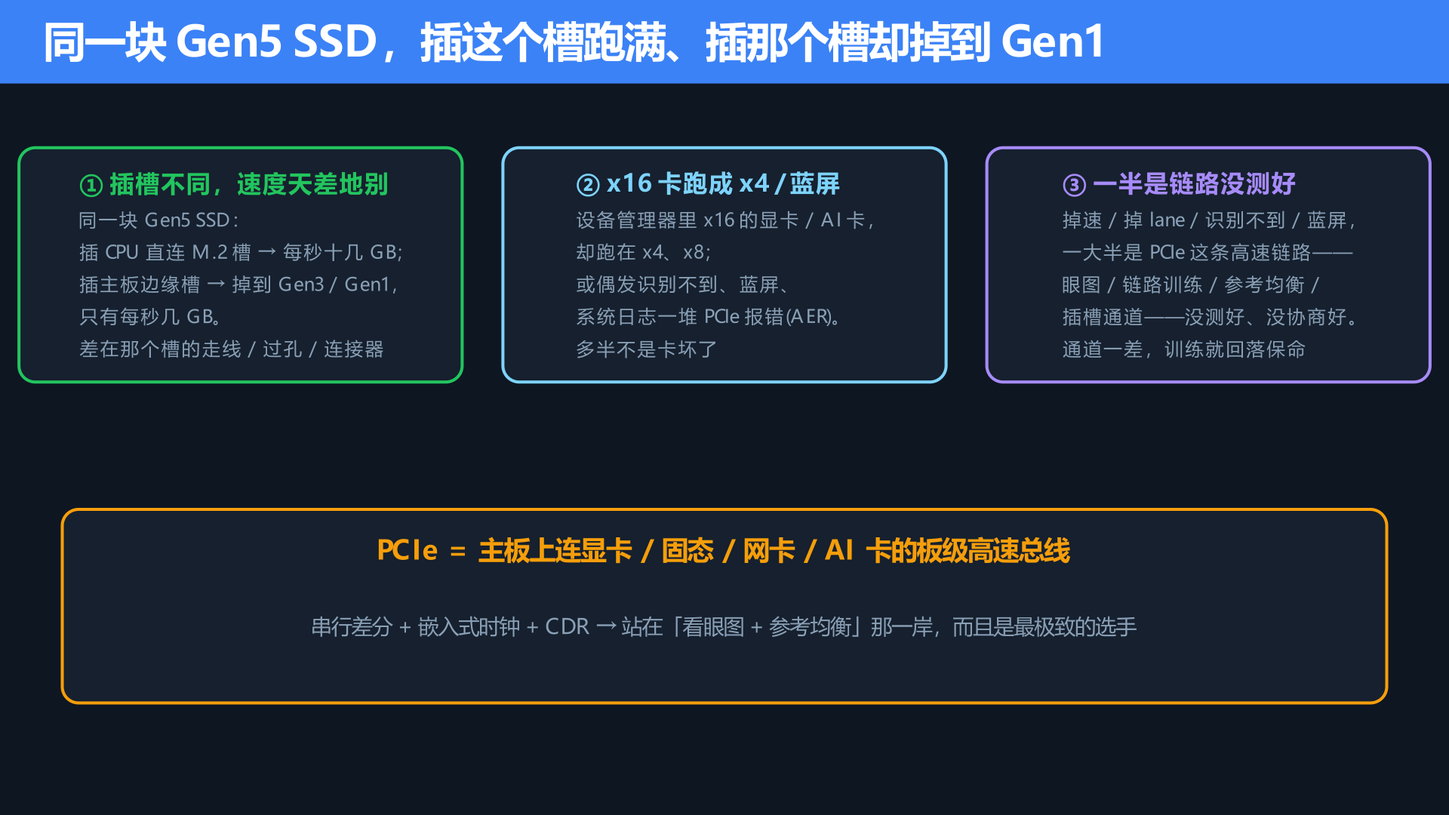
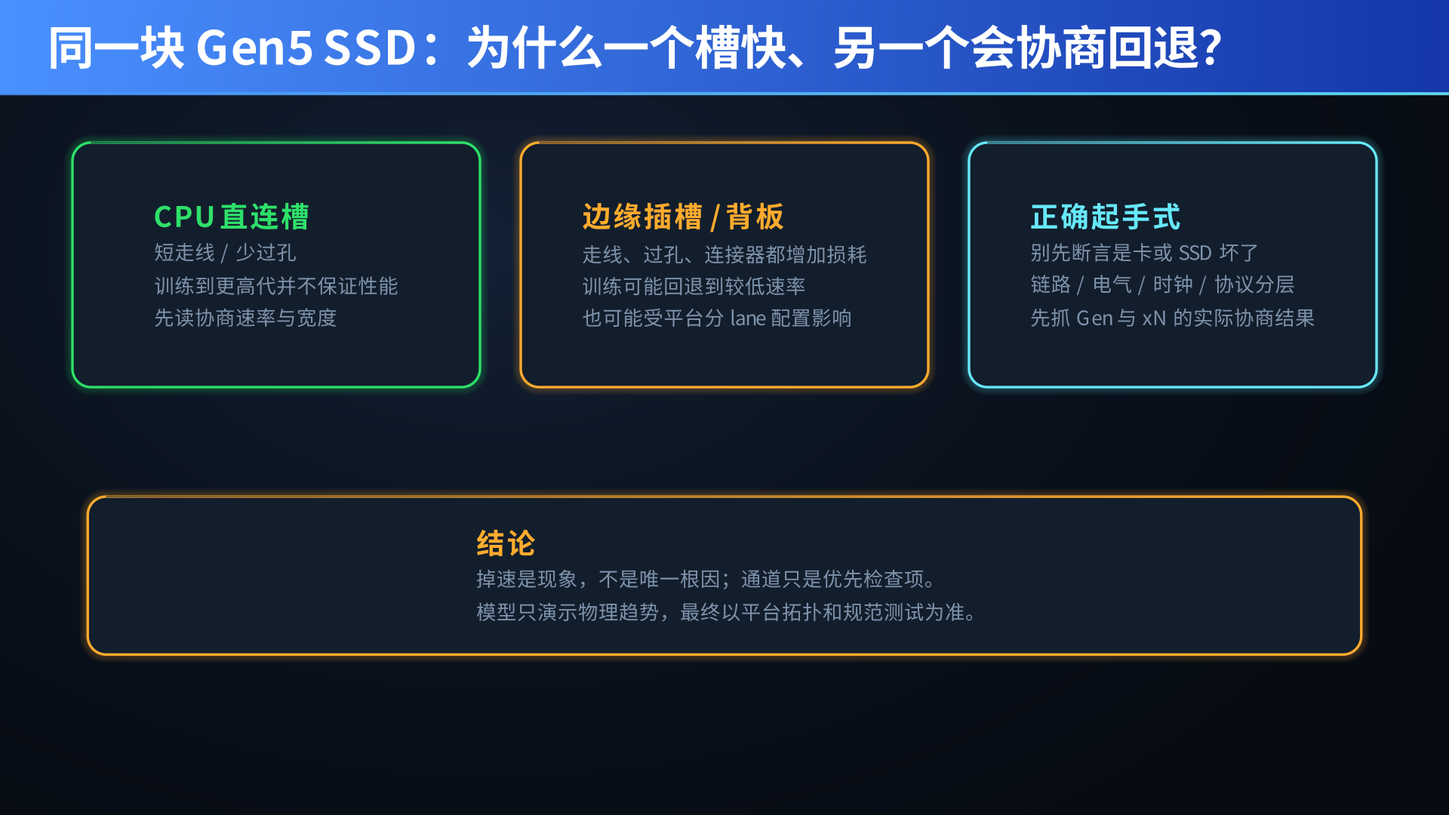
feat: publish upgraded PCIe article
Copilot-Session: 4c8e3f6f-1901-408f-b55d-94d718168ce1

Changed region(s): [[0.0312, 0.1528, 1.0, 0.4889], [0.0312, 0.5806, 0.9688, 0.8861], [0.0, 0.0, 1.0, 0.1222]]

diff --git a/articles/44.md b/articles/44.md
@@ -1,213 +1,176 @@
 ---
-title: 同一块 Gen5 SSD，插主板这个槽跑满、插那个槽却掉到 Gen1——PCIe：一致性测试里把「嵌入参考封装 + 参考均衡」玩到极致的接口，到 Gen6 还第一个跳进了 PAM4 三只眼
+title: 同一块 Gen5 SSD，为什么这个槽跑满、那个槽会回退？
 outline: [2,3]
 ---
 
-# 同一块 Gen5 SSD，插主板这个槽跑满、插那个槽却掉到 Gen1——PCIe：一致性测试里把「嵌入参考封装 + 参考均衡」玩到极致的接口，到 Gen6 还第一个跳进了 PAM4 三只眼
+# 同一块 Gen5 SSD，为什么这个槽跑满、那个槽会回退？
 
-<div class="article-meta"><span class="badge">📘 模块六 · 高速接口一致性测试 · 第 10 篇 · 高速家族第 1 篇 · PCIe</span><span class="badge">⏱ 约 24 分钟</span><span class="badge qr">🔧 含工程师速查</span></div>
+<div class="article-meta"><span class="badge">📘 模块六 · 高速接口一致性测试 · PCIe</span><span class="badge">⏱ 约 10 分钟</span><span class="badge qr">🔧 含工程师速查</span></div>
 
 
-先说个装机、做服务器的人几乎都踩过的坑。
+> PCIe 不是“看到一张眼图就结束”的接口。它把 **Tx 合规、Rx 容限、通道、链路训练和协议互操作**分成不同对象；掉到 Gen1 或 x4，只是告诉我们该从哪一层开始找证据。
 
-你买了一块标称 **Gen5** 的固态硬盘，跑分软件一测傻眼了：插主板**靠 CPU 那个 M.2 槽**，顺序读能到**每秒十几个 GB**；插到**主板边上那个槽**，却只有**每秒几个 GB**，一查协商速率，竟然掉到了 **Gen3、甚至 Gen1**。再比如你插一块**显卡 / AI 加速卡**，设备管理器里明明是 x16 的卡，一看却跑在 **x4、x8**，或者干脆**偶发识别不到、蓝屏、系统日志里一堆 PCIe 报错（AER）**。
+同一块 Gen5 SSD，插 CPU 直连槽能跑满，换到另一个槽却协商到低代；一张 x16 卡又只跑 x4。这个现象常常让人先怀疑卡、SSD 或驱动，但不能据此断言根因。插槽拓扑、通道损耗、过孔和连接器、参考时钟、训练协商、平台分 lane 策略、固件，甚至插接与供电，都可能参与。
 
-很多人以为是 SSD 坏了、卡坏了。但做硬件的人清楚：**这类「掉速、掉 lane、识别不到、偶发蓝屏」里，有一大半根本不是设备坏了，而是 PCIe 这条高速链路——信号眼图、链路训练、参考均衡、或者插槽到设备那段通道——没测好、没协商好。** 同一块 SSD 插不同槽速度天差地别，往往就是因为不同槽的**走线长度、过孔、连接器**不一样，通道损耗一大，链路训练就只能回落到低速档保命。
+这一篇只做一件事：把“掉速”拆成可测对象。下面的眼图、阈值和翻转均来自 `pcie_phys.py` 的**教学模型**；它们说明趋势，不是 PCI-SIG CTS 模板，也不能直接写进产品报告。
 
-这条总线怎么从 Gen1 一路翻到 Gen6、它的眼图到底怎么测、为什么 PCIe 的测法比谁都「重」——这，就是这一篇要讲的。
-
-![图1：PCIe 现场痛点钩子。左：同一块 Gen5 SSD，插 CPU 直连 M.2 槽顺序读每秒十几 GB、插主板边缘槽却掉到 Gen3/Gen1 只有每秒几 GB——不同槽走线长度/过孔/连接器不同→通道损耗大→链路训练回落保命。中：x16 显卡/AI 加速卡却跑在 x4/x8，或偶发识别不到/蓝屏/系统日志一堆 PCIe AER 报错。右：一句点题——别急着怪 SSD/卡坏，一半是 PCIe 链路（眼图/链路训练/参考均衡/插槽通道）没测好没协商好。PCIe = 板级高速总线，嵌入式时钟+CDR+看眼图那一岸最极致的选手](/images/44/ill01_pain.png)
+![图1：同一设备在不同槽表现不同，是分层定位的入口，不是单一根因证明。](/images/44/ill01_pain.png)
 
 ---
 
-## 一、先认清主角：PCIe 是什么、你主板上到处都是它
+## 一、链路、lane、速率、宽度：先读协商结果
 
-**PCIe（PCI Express，高速外设互连）** 是当今 PC、服务器、工作站里最主流的**板级点对点高速总线**。你主板上那些插槽和接口，绝大多数都是它：
+PCIe 是点对点串行差分互连。Root Complex 通常在 CPU、SoC 或芯片组，Endpoint 可以是 SSD、GPU、网卡或加速卡。每条 lane 都有一对 Tx 和一对 Rx，因此是全双工；x1、x4、x8、x16 是多条 lane 叠加出来的宽度。
 
-- **显卡插槽**（x16）、**M.2 / U.2 固态硬盘**、**网卡 / 声卡 / 采集卡**、**服务器背板上的 SSD / AI 加速卡 / 智能网卡**——全走 PCIe。
-- 结构上它是**点对点**的：一端是 **Root Complex（根复合体，通常在 CPU / 芯片组里）**，另一端是 **Endpoint（端点设备，比如那块 SSD 或显卡）**，中间可以经过 **Switch（交换器）** 扩展。
+数据线上没有转发时钟。接收端用 CDR 从数据边沿恢复采样时钟，所以它属于“看眼图”的串行接口。与此同时，PCIe 还有供两端 PLL 使用的参考时钟；它不能和数据的嵌入式时钟混为一谈。
 
-PCIe 有三个关键特征，正好对应这一篇的测试主线：
+![图2：PCIe 的 Root Complex、Endpoint 与全双工 lane。](/images/44/ill02_link.png)
 
-1. **串行差分 + 嵌入式时钟 → 靠 CDR**：每条 lane 是一对差分线（收发各一对，全双工），**没有独立时钟线**，时钟埋在数据里，接收端用 CDR 恢复——**所以要看眼图**，和 USB3 / DP / UFS 完全同岸。
-2. **多 lane 叠加（x1 / x4 / x8 / x16）**：把多条 lane 并起来堆带宽，x16 就是 16 条 lane 一起上；链路训练时会**协商**用几条 lane、跑哪一代。
-3. **另有一根参考时钟（refclk）**：除了数据里的嵌入式时钟，PCIe 还给两端的 PLL 喂一根 **100 MHz 参考时钟**——这根 refclk 怎么给（共享 / 独立），后面会讲，是 PCIe 独有的一道题。
+速率是 Gen 和 GT/s，宽度是 xN。先记录两者，连同发生回退的时间点、LTSSM 状态和错误计数，才有后续定位的起点。x16 变 x8 或 x4 也不必然等于“最后几根线坏了”：平台拓扑和 bifurcation 配置必须先排除。
 
-一句话：**PCIe = 主板上连显卡 / 固态 / 网卡 / AI 卡的那条串行差分高速总线**；数据靠 CDR、天生站在「看眼图」这一岸。
+### Common Clock、SRNS、SRIS：剩下的相对误差不一样
 
-![图2：认清 PCIe 主角。中间画一条 PCIe 链路：左 Root Complex（CPU/芯片组内）↔ 右 Endpoint（SSD/显卡/网卡/AI 卡），中间可选 Switch 扩展。链路画成收发各一对差分 lane（全双工）、标"x1/x4/x8/x16 多 lane 叠加、无独立时钟线"。旁边列身边场景：显卡 x16 槽/M.2/U.2 SSD/网卡/服务器背板 AI 卡。底部三大特征：①串行差分+嵌入式时钟→靠 CDR（看眼图，同 USB3/DP/UFS）②多 lane 叠加协商 lane 数/代数 ③另有一根 100MHz 参考时钟 refclk 喂两端 PLL（共享/独立，PCIe 独有的题）](/images/44/ill02_whatis.png)
+Common Clock 下两端使用同源 refclk，通常相对漂移较小。SRNS 是独立时钟且不使用 SSC；SRIS 是独立时钟且各自使用 SSC。后三者不是简单的“好/坏”排序，而是 CDR、抖动预算、校准和验证条件不同。
 
----
+SSC 是**下扩频**概念：时钟为分散辐射峰值而向低频方向调制，不应简化成“±0.5% 抖动”。做抖动分析时，CDR 或 golden PLL 的设置要按适用规范和架构匹配；不匹配会把应当跟踪的调制误算进残余抖动。
 
-## 二、原理与演进：嵌入式时钟看眼图，编码从 8b/10b 到 128b/130b 再到 PAM4
-
-### 2.1 数据链路：嵌入式时钟 + CDR（和 USB3 / DP / UFS 同岸）
-
-PCIe 的每条 lane 都是**串行差分**，**没有转发时钟线**，时钟信息编在数据里，接收端靠 **CDR（时钟数据恢复，↔第 32 篇）** 从数据边沿把时钟捞出来。所以它天生站在 q02 的「**嵌入式时钟 / 看眼图**」这一岸——和 USB3、DP、UFS 的 M-PHY 一模一样。测的是**眼图 + 抖动 + 参考均衡**，不是 setup/hold 时序。
-
-### 2.2 编码三代：从 8b/10b，到 128b/130b，再到 PAM4
-
-PCIe 的编码方式，随着代数换过三次，这是理解它速率和测法的关键：
-
-- **Gen1 / Gen2 = 8b/10b**：每 8 bit 用 10 bit 传，**20% 开销**（和 USB3 Gen1、UFS 一样）。
-- **Gen3 / Gen4 / Gen5 = 128b/130b**：每 128 bit 只加 2 bit 头，**开销降到约 1.5%**——这就是为什么 Gen3（8 GT/s）的有效带宽差不多是 Gen2（5 GT/s）的两倍还多。
-- **Gen6 = PAM4 + FLIT + FEC**：见下一节，这是 PCIe 最大的一次跳变。
-
-### 2.3 参考时钟架构：共享 / 独立 + 扩频（PCIe 独有的一道题）
-
-除了数据里的嵌入式时钟，PCIe 还有一根 **100 MHz 参考时钟（refclk）** 喂两端 PLL。它怎么给，分三种，直接影响 CDR 和一致性测试：
-
-- **Common Refclk（共享参考时钟）**：两端用同一根 refclk，最常见（主板插槽就是这样）。两端时钟同源，CDR 压力小。
-- **SRIS（独立参考时钟 + 各自扩频）**：两端各用各的 refclk，都开扩频。用于**线缆 PCIe**（如外接 SSD、扩展坞）——板子分开、没法共享时钟时用，**对 CDR 要求更高**。
-- **SRNS（独立参考时钟、不扩频）**：类似 SRIS 但不开扩频。
-
-其中**扩频时钟（SSC）** 是为降 EMI 用的：把 refclk 在 ±0.5% 的窄带里轻微抖动，把能量摊开、降低辐射峰值。**测抖动时，示波器的时钟恢复（golden PLL）必须跟得住 SSC 的调制**，否则会把 SSC 误当成抖动测进去（↔第 32 篇）。
-
-![图3：PCIe 三大原理骨架。上区块 数据链路：串行差分、无转发时钟、时钟埋数据靠 CDR（↔32）→"嵌入式时钟/看眼图"岸，和 USB3/DP/UFS 同路，测眼图+抖动+参考均衡。中区块 编码三代：Gen1/2=8b/10b（20% 开销）→ Gen3/4/5=128b/130b（约 1.5% 开销，效率大涨）→ Gen6=PAM4+FLIT+FEC（下一节）。下区块 参考时钟架构（PCIe 独有）：另有一根 100MHz refclk 喂两端 PLL——Common Refclk 共享（主板插槽,CDR 压力小）/ SRIS 独立+各自扩频（线缆 PCIe,CDR 要求高）/ SRNS 独立不扩频；扩频 SSC ±0.5% 降 EMI，示波器 golden PLL 必须跟得住 SSC 否则误当抖动。底部一句：PCIe 是"看眼图"岸最极致的选手](/images/44/ill03_arch.png)
+![图3：三种参考时钟架构与教学残余量，明确 SSC 是下扩频。](/images/44/ill03_clock.png)
 
 ---
 
-## 三、版本与速率：从 Gen1 2.5 GT/s 到 Gen6 64 GT/s，每代翻倍
+## 二、Gen1 到 Gen6：NRZ、PAM4 与有效带宽别混读
 
-PCIe 的速率用 **GT/s（每秒吉传输）** 表示，几乎**每代翻倍**。主流版本对应关系（单向、每 lane）：
+Gen1/2 使用 8b/10b，Gen3/4/5 使用 128b/130b，Gen6 引入 PAM4、FLIT 和 FEC。公开资料通常把 Gen6 标为 64 GT/s；其 PAM4 符号率仍是 32 Gbaud，与 Gen5 同阶，但每个 PAM4 符号承载两 bit。GT/s、编码效率、协议开销和应用实测 GB/s 是不同层面的数字。
 
-| 版本 | 线速率 | 编码 | 每 lane 有效带宽 | x16 单向带宽 |
-|---|---|---|---|---|
-| Gen1 | 2.5 GT/s | 8b/10b | ≈ 0.25 GB/s | ≈ 4 GB/s |
-| Gen2 | 5.0 GT/s | 8b/10b | ≈ 0.5 GB/s | ≈ 8 GB/s |
-| Gen3 | 8.0 GT/s | 128b/130b | ≈ 1.0 GB/s | ≈ 15.75 GB/s |
-| Gen4 | 16 GT/s | 128b/130b | ≈ 2.0 GB/s | ≈ 31.5 GB/s |
-| Gen5 | 32 GT/s | 128b/130b | ≈ 4.0 GB/s | ≈ 63 GB/s |
-| Gen6 | 64 GT/s | PAM4 + FLIT + FEC | ≈ 8 GB/s | ≈ 128 GB/s |
+| 代际 | 公开线速率 | 物理编码重点 | 每 lane 理论带宽理解 |
+|---|---:|---|---|
+| Gen3 | 8 GT/s | 128b/130b、NRZ | 约 1 GB/s，未含协议实际开销 |
+| Gen4 | 16 GT/s | 128b/130b、NRZ | 约 2 GB/s，未含协议实际开销 |
+| Gen5 | 32 GT/s | 128b/130b、NRZ | 约 4 GB/s，未含协议实际开销 |
+| Gen6 | 64 GT/s | PAM4、FLIT、FEC | 约 8 GB/s 的编码层近似，系统开销另算 |
 
-要点：
-
-- **GT/s 不等于 GB/s**：要先扣编码开销、再除以 8、再乘 lane 数。Gen3 起换 128b/130b，所以「GT/s 数字 ÷ 8」就差不多是每 lane 的 GB/s。
-- **Gen6 的 64 GT/s 是「假翻倍」**：它的**波特率还是 32 Gbaud**（和 Gen5 一样），靠 **PAM4 每符号 2 bit** 把比特率翻上去——这样才不至于让通道带宽需求也跟着翻倍（否则主板根本扛不住）。这和示波器带宽选型的道理一致：**PAM4 用「一个符号两比特」换「不再拉高波特率」**。
-- **x16 到 Gen5 已是每秒 63 GB、Gen6 达 128 GB**：这已经是消费和服务器主板上最快的板级总线，AI 加速卡、高端 SSD 全靠它喂数据。
-
-![图4：PCIe 版本与速率阶梯（每代翻倍）。横向阶梯：Gen1 2.5GT/s(8b/10b,0.25GB/s/lane,x16≈4GB/s)→Gen2 5.0(8b/10b,0.5,x16≈8)→Gen3 8.0(128b/130b,~1.0,x16≈15.75)→Gen4 16(128b/130b,~2.0,x16≈31.5)→Gen5 32(128b/130b,~4.0,x16≈63)→Gen6 64GT/s(PAM4+FLIT+FEC,~8,x16≈128)。每档标编码方式虚线框，8b/10b(20%)/128b/130b(1.5%)/PAM4 分色。右端强调框：Gen6 64GT/s 是"假翻倍"——波特率仍 32Gbaud，靠 PAM4 每符号 2bit 翻比特率，不拉高通道带宽需求(主板扛不住)。底部一句：GT/s≠GB/s，先扣编码再÷8再×lane；x16 到 Gen6 达 128GB/s，AI 卡/高端 SSD 全靠它](/images/44/ill04_versions.png)
+![图4：代际、编码和 GT/s 的关系；不把 GT/s 直接等同应用吞吐。](/images/44/ill04_gens.png)
 
 ---
 
-## 四、独特主角：Gen6 PAM4——从 NRZ 单眼，跳进三只眼 + 强制 FEC
+## 三、通道与 preset：眼为什么会先好、再坏
 
-如果说前面几篇的串行接口都在 **NRZ（两电平：0 和 1，一只眼）** 里翻速率，那 **PCIe Gen6 就是主流串行里第一个跳进 PAM4** 的——这是这一篇最该带走的反差。
+通道不是一根理想线。封装、FR4 走线、过孔和连接器随频率带来损耗；阻抗不连续还会反射。它们叠加为边沿变慢、码间串扰、振铃和抖动。第 44 篇模型把这几项显式放进去，方便扫描一个旋钮时不丢掉原因。
 
-- **NRZ（Gen1~Gen5）**：每个符号只有高 / 低两个电平，示波器上叠出**一只眼**，判据就是那只眼睁得够不够大。
-- **PAM4（Gen6）**：每个符号有**四个电平（00 / 01 / 10 / 11）**，一个符号携带 **2 bit**，示波器上叠出**上、中、下三只眼**。好处是波特率不用翻倍就把比特率翻倍；代价是**四个电平挤在同样的电压范围里，每只眼都比 NRZ 小得多、信噪比骤降**。
-- **所以 Gen6 强制上 FEC（前向纠错）**：PAM4 眼小、误码率天然高，光靠信号裕量保不住，必须在链路里加 **FEC** 边传边纠错，把误码率压回目标；同时改用 **FLIT（固定大小流控单元）** 模式配合 FEC。
-- **测法跟着变**：Gen6 的一致性要**同时看三只眼**，还要评估 **PAM4 特有的电平失真（如 RLM 电平分离度）**、以及 FEC 之前的原始误码率——比 NRZ 单眼复杂了一个量级。
+![图5：教学通道由封装、走线、过孔、连接器和反射共同组成。](/images/44/ill05_channel.png)
 
-一句话：**PCIe Gen6 = 主流串行第一次从「一只眼 NRZ」跳到「三只眼 PAM4」，代价是眼变小、信噪比降，只能靠强制 FEC 边传边纠。** 这也是后面高速接口（未来的 UALink、CXL、乃至 224G 以太网）都在走的路——PCIe 只是先趟了。
+Tx FFE preset 的目标是抵消一部分高频损失。补得太少，远端高频不够；补得太多，过冲、振铃和噪声同样会伤害判决窗口。因此“把 preset 开大”不是调试方法。
 
-![图5：Gen6 PAM4——从 NRZ 单眼跳三只眼+强制 FEC。左：NRZ(Gen1~5) 两电平 0/1、示波器一只眼、判眼睁够不够大。中：PAM4(Gen6) 四电平 00/01/10/11、每符号 2bit、示波器上中下三只眼；标"波特率不翻(仍 32Gbaud)、比特率翻倍；但四电平挤同样电压范围→每只眼更小、信噪比骤降"。右：所以 Gen6 强制 FEC 前向纠错(眼小误码高,边传边纠压回目标)+FLIT 固定流控单元配合。底部强调：Gen6 一致性要同时看三只眼+评 PAM4 电平失真(RLM 电平分离度)+看 FEC 前原始误码率，比 NRZ 单眼复杂一个量级。一句话：PCIe 先趟了 PAM4 这条路(未来 CXL/UALink/224G 以太网都要走)](/images/44/ill05_pam4.png)
+![图6：真实模型眼图随 Tx FFE 扫描经历欠均衡、接近匹配和过均衡。](/images/44/ill06_eq.png)
 
----
+![动图1：走线变长后，模型由高代往低代回退；端点与翻转以动图 meta.json 为准。](/images/44/anim01_channel.gif)
 
-## 五、测什么·三类：Tx 眼图（嵌参考封装）、Rx 压力（嵌参考均衡）、链路 / 协议
+![动图2：Tx FFE 连续扫描出现欠均衡 FAIL、可用区和过均衡恶化；判据为教学判据。](/images/44/anim02_preset.gif)
 
-PCIe 的一致性测试，和 USB3 / DP 一样分三大阵营，但它把「**嵌入参考模型**」这一招用到了极致：
-
-1. **Tx / 发送端眼图**：示波器在规定测试点（如 **TP2**）抓差分眼图，但 PCIe 独特的一步是——**要先把一个「参考封装 + 参考通道」的损耗数学嵌进去**，模拟信号到达接收端芯片引脚时的样子，再套眼图模板判读。还要验各 **preset（预设的去加重 / 预加重档，Gen5 有 11 档 P0~P10）** 下的眼。
-2. **Rx / 接收端压力测试（jitter tolerance）**：用码型发生器造**校准过的压力眼**（把损耗、抖动、串扰加到规范最坏值），灌给被测接收端，测它的**抖动容限 / 误码率**（↔第 38 篇）。PCIe 这里的关键是：判据是「**接收端嵌入一个行为级 DFE（参考均衡器）之后**」还能不能正确恢复——这就是 README 里说的「**嵌 reference package + DFE**」。
-3. **链路 / 协议（LTSSM + 均衡协商）**：PCIe 的链路训练由状态机 **LTSSM（链路训练与状态机）** 驱动，从检测、轮询、配置一路到 L0（正常工作）；**Gen3 起多了专门的「均衡阶段」，两端在这里协商 preset、调 TX 去加重和 RX 均衡系数**，训到最佳眼。测协议要用 **PCIe 协议分析仪** 看 LTSSM 走到哪、均衡协商成不成、有没有回落。
-
-此外，**通道 / CEM（板级）** 也要测：PCIe 有专门的 **CEM（板卡机电规范）**，用 **CBB（一致性基板）+ CLB（一致性负载板）** 这套治具，模拟最坏情况的主板 / 板卡通道，验插槽到设备那段的插损 / 回损 / 串扰。
-
-![图6：PCIe 一致性测试三阵营（把"嵌参考模型"玩到极致）。左 Tx/发送端：示波器在 TP2 抓差分眼→独特一步：先数学嵌入"参考封装+参考通道"损耗模拟到接收芯片引脚的样子→套眼图模板；验各 preset(Gen5 有 P0~P10 共 11 档去加重/预加重)。中 Rx/接收端压力(jitter tolerance)：码型发生器造校准压力眼(loss+jitter+串扰加满)灌被测端→判据是"接收端嵌行为级 DFE 参考均衡后"能否正确恢复=嵌 reference package+DFE(↔38)。右 链路/协议：LTSSM 链路训练(检测→轮询→配置→L0)，Gen3 起有均衡阶段协商 preset/调 TX 去加重+RX 均衡；PCIe 协议分析仪看走到哪/回落没。底部：通道/CEM 用 CBB 基板+CLB 负载板模拟最坏主板/板卡通道测插损回损串扰](/images/44/ill06_test3.png)
+这里的 FAIL/PASS 只表示模型的教学眼高、眼宽判据，不是 Tx 合规结论。真正的 Tx 合规测试需要适用的测试模式、测试点、夹具、参考面、分析模型和规范流程。
 
 ---
 
-## 六、怎么测：进 compliance 模式 + 打 compliance pattern + 嵌参考封装 / 参考均衡
+## 四、LTSSM 与 Recovery.Equalization：训练不是“自动修好一切”
 
-PCIe 的台面流程，和 USB3 / DP 那套「进测试模式 → 抓眼图 → 套模板」同源，但多了 PCIe 专属的几步：
+链路训练由 LTSSM 驱动。达到更高代时，Recovery.Equalization 会围绕速率、Tx preset 和接收均衡做协商；如果条件不能满足，链路可能选择可工作的较低速率或较低宽度。训练结果很有价值，但它是**定位证据**，不能单凭一次回退就把根因锁死为“信号差”。
 
-- **进 compliance 模式**：PCIe 有个巧妙的机制——把设备插进 **compliance 测试槽**、或在链路训练时故意**让链路进不到 L0**，设备就会自动进入 **Polling.Compliance** 态，**循环输出规定的 compliance 测试码型**，并且可以**用热复位（toggle）在各 preset / 各代速率之间切换**，方便示波器逐档抓眼。
-- **打 compliance pattern**：让被测端持续输出规范定义的一致性码型（含各 preset），示波器长时间累积眼图。
-- **嵌参考封装 + 参考通道**：Tx 眼图判读前，把 **PCI-SIG 提供的参考封装 / 参考通道 S 参数**用软件嵌进测量，还原信号到接收端芯片引脚处的样子。
-- **参考均衡 CTLE + 行为级 DFE**：Gen3 起，判据都是「**参考均衡之后**」的眼——把 **CTLE + DFE（↔第 34 篇）** 按规范系数挂上，把闭着的眼睁开再判。Gen4 / Gen5 通道损耗极大，**裸眼图基本全闭**，全靠这套参考均衡。
-- **Gen6 三只眼**：PAM4 要同时抓上中下三只眼，评电平分离度和 FEC 前误码率。
+![图7：Recovery.Equalization 在链路状态机中的角色，以及四类测试对象不可互相替代。](/images/44/ill07_recovery.png)
 
-> 一句话：**PCIe 的仪器设置 = USB3 / DP 那套嵌入式时钟测法，再叠上「嵌参考封装 + 嵌行为级 DFE」这道 PCIe 独门工序。** 你在第 41 / 44 篇学的抖动分离、参考均衡、golden PLL，这里全能复用，只是嵌的模型更讲究。
+xN 的木桶效应同样要谨慎解释：多条 lane 的一致性、连接和板级拓扑都会影响最终可用宽度。下图只演示“最差 lane 拖低可训练宽度”的物理趋势。
 
-![图7：PCIe 测试台面搭建。左区块"进 compliance 模式"：设备插 compliance 测试槽/让链路进不到 L0→自动进 Polling.Compliance→循环输出 compliance 码型，热复位 toggle 在各 preset/各代速率间切换便于逐档抓眼。中区块"抓眼+嵌模型"：示波器 TP2 抓差分眼→软件嵌 PCI-SIG 参考封装+参考通道 S 参数(还原到接收芯片引脚)→挂参考均衡 CTLE+行为级 DFE(↔34,Gen4/5 裸眼全闭全靠它)→套模板。右区块"Gen6 PAM4"：同时抓上中下三只眼、评电平分离度 RLM+FEC 前原始误码率。底部强调：PCIe 设置=USB3/DP 嵌入式时钟测法+"嵌参考封装+嵌行为级 DFE"独门工序；41/44 学的抖动分离/参考均衡/golden PLL 全复用](/images/44/ill07_bench.png)
+![动图3：x16 的教学 lane 集合中，最差 lane 增加损耗后，模型宽度可回退至 x8 或 x4。](/images/44/anim03_lane.gif)
 
 ---
 
-## 七、⚙ 关键仪器设置：把模块三的 SI 概念落到 PCIe 旋钮上
+## 五、Gen6 PAM4、FLIT、FEC：三眼要把 FEC 前后说清
 
-PCIe 的仪器设置，是这一岸各接口里**最讲究**的一套：
+NRZ 是两电平、一只眼；PAM4 是四电平、上中下三只眼。PAM4 用更多电平提高每符号携带的信息量，同时把电平间距压得更紧。因此评估需要看三只眼、电平分离等质量，而不是只看一张 NRZ 式单眼图。
 
-- **嵌参考封装 / 参考通道（embed）↔第 33 篇的逆操作**：和「去嵌」相反，这里是**故意把规范的参考封装 / 通道损耗嵌进去**，模拟信号到接收端引脚的样子——这是 PCIe 判 Tx 眼图的前提。
-- **参考均衡 CTLE + DFE↔第 34 篇**：按 PCI-SIG 给的参考均衡系数挂，判据是「均衡后」的眼；Gen4 / Gen5 必用。
-- **时钟恢复 golden PLL + 跟 SSC↔第 32 篇**：用规范的黄金 PLL 环路恢复时钟，且必须跟得住扩频（SSC）的调制，否则把 SSC 误测成抖动。
-- **带宽按波特率选↔第 29 / 速查 02**：按线速率约 0.7~1 倍选示波器带宽（Gen5 32 GT/s → 用 33 GHz 级示波器；Gen6 PAM4 仍 32 Gbaud，带宽需求没跟着翻倍——这正是 PAM4 的用意）。
-- **抖动分离 + eye mask↔第 31 / 32 篇**：TJ 拆 RJ / DJ，套 PCIe 眼图模板；Gen6 要拆三只眼、算电平分离度。
+FEC 的作用是纠正一定范围内的前纠错错误。它不是“物理层不需要裕量”的许可证；报告和调试要明确口径：观察的是 FEC 前错误风险、FEC 后错误表现、还是业务层后果。也不要把 Gen6 说成“假翻倍”或“天然误码高”——应准确说它在相近符号率下使用 PAM4，并以 FLIT/FEC 配合完成系统设计。
 
-> 一句话：**PCIe 把「嵌模型 + 参考均衡」做到了极致——判的从来不是你示波器上看到的裸眼，而是「嵌了参考封装、过了参考均衡之后」那只（Gen6 是三只）眼。**
+![图8：Gen6 PAM4 三眼与 FEC 前风险概念，数值来自教学模型。](/images/44/ill08_pam4.png)
+
+![动图4：教学通道损耗增加时，PAM4 三眼和 FEC 前风险指数同步变化。](/images/44/anim04_pam4.gif)
 
 ---
 
-## 八、判据从哪来：PCI-SIG 的 Base Spec + CEM Spec + 一致性测试规范
+## 六、Tx、Rx、通道、协议/互操作：四类证据各回答各的问题
 
-和第 35 篇讲的一样，PCIe 的判据来自标准的一致性测试规范，且由 **PCI-SIG（PCIe 标准组织）** 统一维护：
+| 对象 | 主要回答的问题 | 不能替代什么 |
+|---|---|---|
+| Tx 合规 | 发送端在规定条件、参考面和分析流程下是否满足要求 | 不能替代 Rx 容限 |
+| Rx 容限 | 接收端面对校准压力信号时还能否可靠恢复 | 不能替代通道测试 |
+| 通道 / CEM | 互连的 S 参数、损耗、回损、串扰及治具/拓扑是否符合适用要求 | 不能替代系统互操作 |
+| 协议 / 互操作 | LTSSM、错误、Recovery、配置与系统行为如何关联 | 不能替代任一物理层合规结果 |
 
-- **Base Specification（基础规范）**：定义各代速率、编码、LTSSM、均衡、电气参数、眼图模板、抖动预算——**芯片 / SerDes 层面**的符合性。
-- **CEM Specification（板卡机电规范）**：定义**插槽 / 板卡（add-in card）** 的机械 + 电气要求，配 **CBB / CLB** 治具测板级通道——**板卡 / 主板层面**的符合性。
-- **一致性测试规范（CTS）+ Integrators List**：PCI-SIG 定期办 **Compliance Workshop（一致性大会）**，产品测过一致性套件、进 **Integrators List（集成者名单）**，才算官方认证「能和全世界的 PCIe 设备互通」。
+PCIe 不“独创”参考封装或 DFE；各类高速链路都会使用参考模型和均衡。PCIe 的测试流程为何常见 embed、参考接收器或行为级 DFE，取决于所测对象和适用方法。不要把它描述成“所有 PCIe 都只判均衡后眼”，更不能把一套公开教学模型冒充受控 CTS。
 
-所以 PCIe 判据体系是**分层的**：**电气 / SerDes 归 Base Spec，板卡 / 插槽归 CEM Spec**——和 DP（PHY CTS + Link Layer CTS）、UFS（M-PHY CTS + JEDEC UFS）结构上完全一个套路。眼图模板 / 抖动预算，同样是从**信道损耗 + 抖动预算**反推而来（↔第 35 篇）。
+![图9：Tx 与 Rx 两类台面各自留下什么证据。](/images/44/ill09_txrx.png)
 
----
+![图10：Tx 合规 Setup Diagram——仪器、参考面、参数条和坑位卡。](/images/44/fig_setup_tx.png)
 
-## 九、常见翻车与调试：掉速到 Gen1 / 掉 lane / 识别不到 / 蓝屏 AER，怎么分层揪
-
-PCIe 翻车，**先分层、别一上来就赖信号**（顺序和 USB / DP / UFS 一样）：
-
-1. **先看链路训练层（LTSSM / 代数 / lane 数）**：设备识别没？LTSSM 训到 L0 没？跑在第几代、几条 lane？——**「掉速到 Gen3 / Gen1」「x16 卡跑成 x4」多半是通道太差、均衡协商失败、回落了**，先查这里，跟裸眼图无关。
-2. **再看电气层（眼图 / 参考均衡 / 通道）**：训到高代但偶发误码、AER 报错——量差分眼（嵌参考封装 + 参考均衡后）、量插槽到设备通道的插损 / 回损 / 串扰、看 preset 选得对不对、球脚 / 连接器阻抗是否连续。
-3. **参考时钟层（refclk / SSC）**：抖动异常、SRIS 场景不稳——查 refclk 质量、SSC 调制是否合规、golden PLL 是否跟得住。
-4. **协议 / 均衡协商层**：链路稳但性能上不去、偶发 AER——用协议分析仪查 LTSSM 均衡阶段、preset 协商、FLIT / FEC（Gen6）行为。
-5. **供电 / 完整性层（PI，↔模块三）**：显卡 / SSD 大电流突发时纹波 / 掉压导致偶发错误——PCIe 大功率设备（显卡）PI 尤其关键。
-
-**现象速查**：掉速到 Gen3/Gen1 = 通道差 / 均衡协商失败 / 回落；x16 跑成 x4 = lane 训练 / 连接器 / 通道；训到高代仍偶发 AER = 眼图 / 参考均衡 / 通道 skew；SRIS 场景不稳 = refclk / SSC / CDR；插不同槽差别大 = 那个槽的走线 / 过孔 / 连接器损耗；大负载才偶发蓝屏 = 供电 PI。
-
-![图8：PCIe 翻车→分层揪真凶（别一上来就赖信号）。左侧竖排五层漏斗：①链路训练层 LTSSM/代数/lane 数（识别没、训到 L0 没、几代几 lane｜掉速到 Gen3/Gen1、x16 跑成 x4 死这，均衡协商失败/回落）②电气层 眼图/参考均衡/通道（训到高代仍偶发误码/AER，量嵌参考封装+均衡后的眼、插损回损串扰、preset 对不对）③参考时钟层 refclk/SSC（抖动异常/SRIS 不稳，查 refclk 质量、SSC 合规、golden PLL 跟得住）④协议/均衡协商层（链路稳但性能差/偶发 AER，协议分析仪查 LTSSM 均衡阶段/preset/FLIT-FEC）⑤供电 PI 层（显卡/SSD 大电流突发纹波掉压偶发错误）。右侧"现象→指向哪层"对照表 6 条。底部口诀：先看训到几代几 lane→再量眼图电气→refclk/SSC→协议均衡协商→别忘供电](/images/44/ill08_debug.png)
-
-![图9：PCIe·工程师速查一图。左上：主角=板级点对点高速总线，Root Complex↔Endpoint(经 Switch)，连显卡 x16/M.2 SSD/网卡/AI 卡；串行差分+嵌入式时钟靠 CDR，站"看眼图"岸(同 USB3/DP/UFS)。中上：编码三代 Gen1/2 8b/10b(20%)→Gen3/4/5 128b/130b(1.5%)→Gen6 PAM4+FLIT+FEC；参考时钟 Common 共享/SRIS 独立+SSC/SRNS 独立不扩频。右上：速率 Gen1 2.5→Gen2 5→Gen3 8→Gen4 16→Gen5 32→Gen6 64 GT/s，每 lane 0.25/0.5/1/2/4/8 GB/s，x16 到 Gen6 达 128GB/s。左下：Gen6 PAM4=四电平三只眼+每符号 2bit(波特率仍 32Gbaud)+强制 FEC(眼小信噪比降,边传边纠)，先趟 PAM4 路。右下：测什么三类 Tx 眼图(嵌参考封装,TP2,各 preset)/Rx 压力(嵌行为级 DFE,jitter tolerance)/链路 LTSSM 均衡协商；判据 Base Spec(电气)+CEM(板卡,CBB/CLB)，PCI-SIG Integrators List；调试分层 训练代数 lane→电气眼图均衡→refclk SSC→协议→供电。↔35/速查02/42/41/38/34/33/32/31/29](/images/44/ill09_quickref.png)
+![图11：Rx 压力与协议定位 Setup Diagram——压力源、误码、LTSSM 同步留证。](/images/44/fig_setup_rx.png)
 
 ---
 
-## 一句话总结
+## 七、通道 / CEM：先把参考面和治具讲明白
 
-**一句话：PCIe 是主板上连显卡 / 固态 / 网卡 / AI 卡的板级串行差分高速总线，数据靠 CDR、站在「看眼图 + 参考均衡」这一岸——而且是这一岸最极致的选手。学会了 USB3 / DP / UFS，PCIe 你已经通了大半。**
+通道测量面对的是互连：PCB 走线、过孔、连接器、线缆、卡边和治具。S 参数、参考面、去嵌/嵌入、校准状态和被测拓扑必须一起记录。CEM 讨论的板卡/插槽环境也不能和 Base Spec 的协议、电气定义混成一本“万能判据”。
 
-- **最极致的玩法**：一致性测试独创「嵌入参考封装 + 嵌行为级 DFE 之后再判眼图」，判的从来不是裸眼。
-- **速率 / 编码演进**：Gen1 2.5 GT/s 每代翻倍到 Gen6 64 GT/s；编码从 8b/10b 到 128b/130b；Gen6 更第一个跳进 PAM4 三只眼 + 强制 FEC。
-- **别家没有的坎**：一道参考时钟架构题（共享 / 独立 + 扩频）。
-- **调试先分层**：先看训到第几代、几条 lane，再量嵌了参考封装、过了参考均衡之后的眼。
+示波器带宽不要套“0.7 到 1 倍波特率”的通用口诀。带宽、采样、夹具、探头、CDR、分析软件和适用测试方法要由被测代际和目标测量决定；不清楚时先查公开版本的规范、仪器应用手册和实验室受控流程。
+
+---
+
+## 八、分层定位：把一次掉速变成一张证据链
+
+1. **先读链路**：记录实际 Gen、xN、LTSSM、Recovery 与错误计数，并核对平台拓扑、bifurcation 和固件策略。  
+2. **再看通道 / 电气**：用正确参考面测损耗、回损、串扰，复核 FFE/CTLE/DFE 与分析模型。  
+3. **看 refclk / CDR**：确认 Common Clock、SRNS 或 SRIS，SSC 设置和测量恢复环路的匹配。  
+4. **看协议 / 互操作**：将协议分析仪的训练、错误、重放和回退事件与电气证据对齐。  
+5. **最后回到系统条件**：供电、温度、插接、机械应力、固件与电源管理策略都要留痕。  
+
+![图12：分层定位顺序，避免把“掉速”直接等同于某一条线的眼图问题。](/images/44/ill10_debug.png)
+
+## 九、测试计划：让复现结果能被别人复查
+
+- 建立矩阵：平台、Endpoint、插槽、Gen、xN、温度、供电模式、固件版本、时钟架构。  
+- 每次测试保留：拓扑图、测试点、参考面、夹具/S 参数版本、仪器设置、校准证据、原始波形或日志。  
+- 将 Tx、Rx、通道、协议的结论分别写；关联可以写，替代不可以写。  
+- Gen6 单独标明 PAM4 三眼、电平质量、FEC 前后观察口径和延迟/错误统计窗口。  
+- 不满足条件时写“未覆盖”或“需复测”，不要用一张好看的均衡后眼图替代缺失试验。
+
+![图13：PCIe 测试速查：对象、证据与不可替代关系。](/images/44/ill11_quickref.png)
+
+## 写在最后
+
+PCIe 最实用的排障口诀是：**先读协商 Gen/xN，再分开 Tx、Rx、通道和协议；时钟架构与参考面全留档，PAM4 把 FEC 前后分开讲。**
+
+下一篇预告：**《DDR / LPDDR：并行总线的采样窗、setup/hold 和 skew 怎么测》**。从 PCIe 的串行眼图，换到并行时序的另一套逻辑。
 
 ---
 
 ## 🔧 工程师速查（附录）
 
-| 项 | 要点 |
+### 最小记录清单
+
+| 类别 | 必留字段 |
 |---|---|
-| PCIe 是什么 | PCI Express，板级点对点串行差分高速总线；Root Complex↔Endpoint(经 Switch 扩展)；连显卡 x16/M.2·U.2 SSD/网卡/服务器 AI 卡 |
-| 时钟架构（↔速查02/32） | 数据线**无转发时钟、嵌入式时钟靠 CDR**→站"看眼图"岸(同 USB3/DP/UFS)；另有 100MHz 参考时钟 refclk 喂两端 PLL |
-| 参考时钟架构（PCIe 独有） | Common Refclk 共享(主板插槽,CDR 压力小)/ SRIS 独立+各自扩频(线缆 PCIe,CDR 要求高)/ SRNS 独立不扩频；SSC ±0.5% 降 EMI，golden PLL 必须跟得住 SSC |
-| 编码三代 | Gen1/2=8b/10b(20% 开销)｜Gen3/4/5=128b/130b(约 1.5%)｜Gen6=PAM4+FLIT+FEC |
-| 版本速率 | Gen1 2.5｜Gen2 5｜Gen3 8｜Gen4 16｜Gen5 32｜Gen6 64 GT/s；每 lane≈0.25/0.5/1/2/4/8 GB/s；x16 单向≈4/8/15.75/31.5/63/128 GB/s |
-| GT/s≠GB/s | 先扣编码开销、再÷8、再×lane 数；Gen3 起 128b/130b，"GT/s÷8"≈每 lane GB/s |
-| Gen6 PAM4（独特主角） | 四电平(00/01/10/11)每符号 2bit→三只眼；波特率仍 32Gbaud(不翻,省通道带宽)、比特率翻倍；眼小信噪比降→**强制 FEC** 边传边纠+FLIT 模式；测要看三只眼+电平分离度 RLM+FEC 前误码率 |
-| 多 lane | x1/x4/x8/x16 叠加堆带宽；链路训练协商 lane 数/代数，通道差会回落(掉 lane/掉速) |
-| 测什么·三类（↔35） | ①Tx 眼图：TP2 抓差分眼，**先嵌参考封装+参考通道**再套模板，验各 preset(Gen5 P0~P10 共 11 档)②Rx 压力 jitter tolerance：造校准压力眼，判据是**嵌行为级 DFE 参考均衡后**能否恢复(↔38)③链路/协议：LTSSM 训练+Gen3 起均衡阶段协商 preset/TX 去加重/RX 均衡，协议分析仪看回落 |
-| 怎么测 | 进 compliance 模式(插 compliance 槽/进不到 L0→Polling.Compliance 循环出码型,热复位 toggle 切 preset/代数)→打 compliance pattern→嵌参考封装+参考通道→挂参考均衡 CTLE+DFE→套模板；**判的是嵌模型+均衡后的眼，不是裸眼** |
-| 关键仪器设置 | 嵌参考封装/通道(embed,↔33 逆操作)·参考均衡 CTLE+DFE↔34(Gen4/5 必用)·golden PLL 跟 SSC↔32·带宽按波特率 0.7~1×↔29(Gen5 用 33GHz;Gen6 PAM4 仍 32Gbaud 带宽不翻)·抖动分离+eye mask↔31/32(Gen6 拆三只眼) |
-| 通道/CEM（板级） | CEM 板卡机电规范；CBB 一致性基板+CLB 一致性负载板模拟最坏主板/板卡通道，测插损/回损/串扰 |
-| 判据从哪来 | PCI-SIG 维护：Base Spec(电气/SerDes:速率/编码/LTSSM/均衡/眼图/抖动)+CEM Spec(板卡/插槽,CBB/CLB)+CTS；过一致性套件进 Integrators List 才算官方互通认证；模板从信道+抖动预算反推(↔35) |
-| 调试分层 | 链路训练(几代/几 lane,掉速掉 lane 死这)→电气(嵌参考封装+均衡后的眼/通道/preset)→参考时钟(refclk/SSC)→协议(LTSSM 均衡协商/FLIT-FEC)→供电 PI(显卡/SSD 大电流突发)；别一上来就赖信号 |
-| 现象速查 | 掉速到 Gen3/Gen1=通道差/均衡协商失败/回落；x16 跑成 x4=lane 训练/连接器/通道；训到高代仍 AER=眼图/均衡/通道 skew；SRIS 不稳=refclk/SSC/CDR；插不同槽差别大=那槽走线/过孔/连接器损耗；大负载偶发蓝屏=供电 PI |
-| 与前篇关系（↔42/41/38） | 和 UFS-M-PHY/DP/USB3 同属"嵌入式时钟+CDR+看眼图+参考均衡"岸；PCIe 把"嵌参考封装+DFE"做到极致，且第一个上 PAM4 |
-| 标准出处 | PCI-SIG PCI Express Base Specification、CEM Specification、各代一致性测试规范(CTS)、Compliance Workshop / Integrators List；仪器厂商(Keysight/Tektronix/Teledyne LeCroy/Anritsu)提供 PCIe 自动化一致性测试软件 |
+| 链路 | Gen、xN、LTSSM/Recovery、错误计数、发生时间 |
+| 通道 | 拓扑、参考面、夹具/S 参数版本、校准、损耗/回损/串扰 |
+| Tx / Rx | 测试状态、码型、适用 preset、CDR/分析模型、压力源校准、BER 窗口 |
+| refclk | Common/SRNS/SRIS、SSC 条件、仪器恢复环路设置 |
+| Gen6 | PAM4 三眼/电平质量、FEC 前后口径、统计窗口、延迟观察 |
+
+### 公开资料入口
+
+- PCI-SIG：PCI Express Base Specification 与 CEM Specification 的公开介绍和版本信息。  
+- PCI-SIG：PCIe 6.0 / 7.0 的公开新闻稿与技术概览，用于确认 PAM4、FLIT、FEC 等代际方向。  
+- 仪器厂商的 PCIe 测试应用资料：用于了解测试点、夹具、CDR、S 参数和校准步骤；具体设置以适用版本、许可证和实验室流程为准。  
+
+### 不该写进报告的句子
+
+- “一大半掉速都是链路问题。”——没有适用数据来源。  
+- “Gen4/5 裸眼基本全闭，PCIe 从来不判裸眼。”——绝对化且混淆测试对象。  
+- “带宽按 0.7 到 1 倍波特率选。”——不是跨平台通用规则。  
+- “Gen6 是假翻倍、天然误码高。”——不准确；要明确符号率、PAM4、FEC 和观察口径。

diff --git a/index.md b/index.md
@@ -36,9 +36,9 @@ hero:
 
 ## 🆕 最新更新
 
+- [44 · 同一块 Gen5 SSD，为什么这个槽跑满、那个槽会回退？](/articles/44) 🔧
 - [ss01 · 板级数字信号完整性 SI 完整知识地图：从回流、反射到眼图和 BER，一条链路到底该怎么查](/articles/ss01) 🔧
 - [43 · 屏没坏：FPC 只多吃 0.37 dB，MIPI 电气判定就能从过变挂](/articles/43) 🔧
 - [41 · 同样一台高刷显示器，为什么厂商都让你"用 DP 线、别用 HDMI"？——DisplayPort：天生就是嵌入式时钟 + 打包传输，一致性测法和 HDMI 差在哪](/articles/41) 🔧
 - [42 · 同样是 256G 手机，为什么有的秒开大型游戏、有的卡到怀疑人生？——UFS：把 eMMC 的并行老总线换成 MIPI M-PHY 串行，一致性测法为什么和显示家族"分了家"](/articles/42) 🔧
 - [40 · 同样一根 HDMI 线，为什么有的能 4K120 / 8K、有的一插就花屏黑屏？——HDMI：从 TMDS 到 FRL，测法怎么跟着传输机制换了一套](/articles/40) 🔧
-- [39 · 同样一根 USB-C 线，为什么有的 100W 快充、有的只有 5V？——USB-C / USB PD：一致性测试里唯一不看眼图的一篇](/articles/39) 🔧
